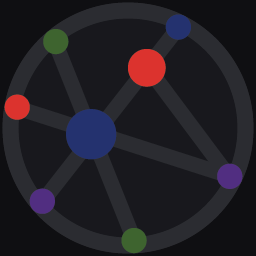
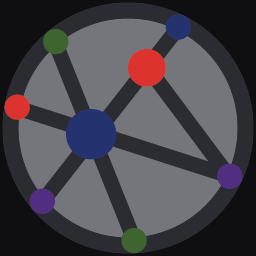
update version to 0.1.1 and enhance package metadata for publishing

diff --git a/CHANGELOG.md b/CHANGELOG.md
@@ -1,6 +1,12 @@
 # Change Log
 
-## 0.1.0 — Initial release as Strander
+## 0.1.1 - Publishing Corrections
+
+- Updated package metadata for publishing (description, keywords, publisher id).
+
+- Updated Logo
+
+## 0.1.0 - Initial release as Strander
 
 - Rebranded from `flowchat-code` to **Strander**.
 - File extension changed to `.strand` (sidecar metadata: `.strand.meta`).